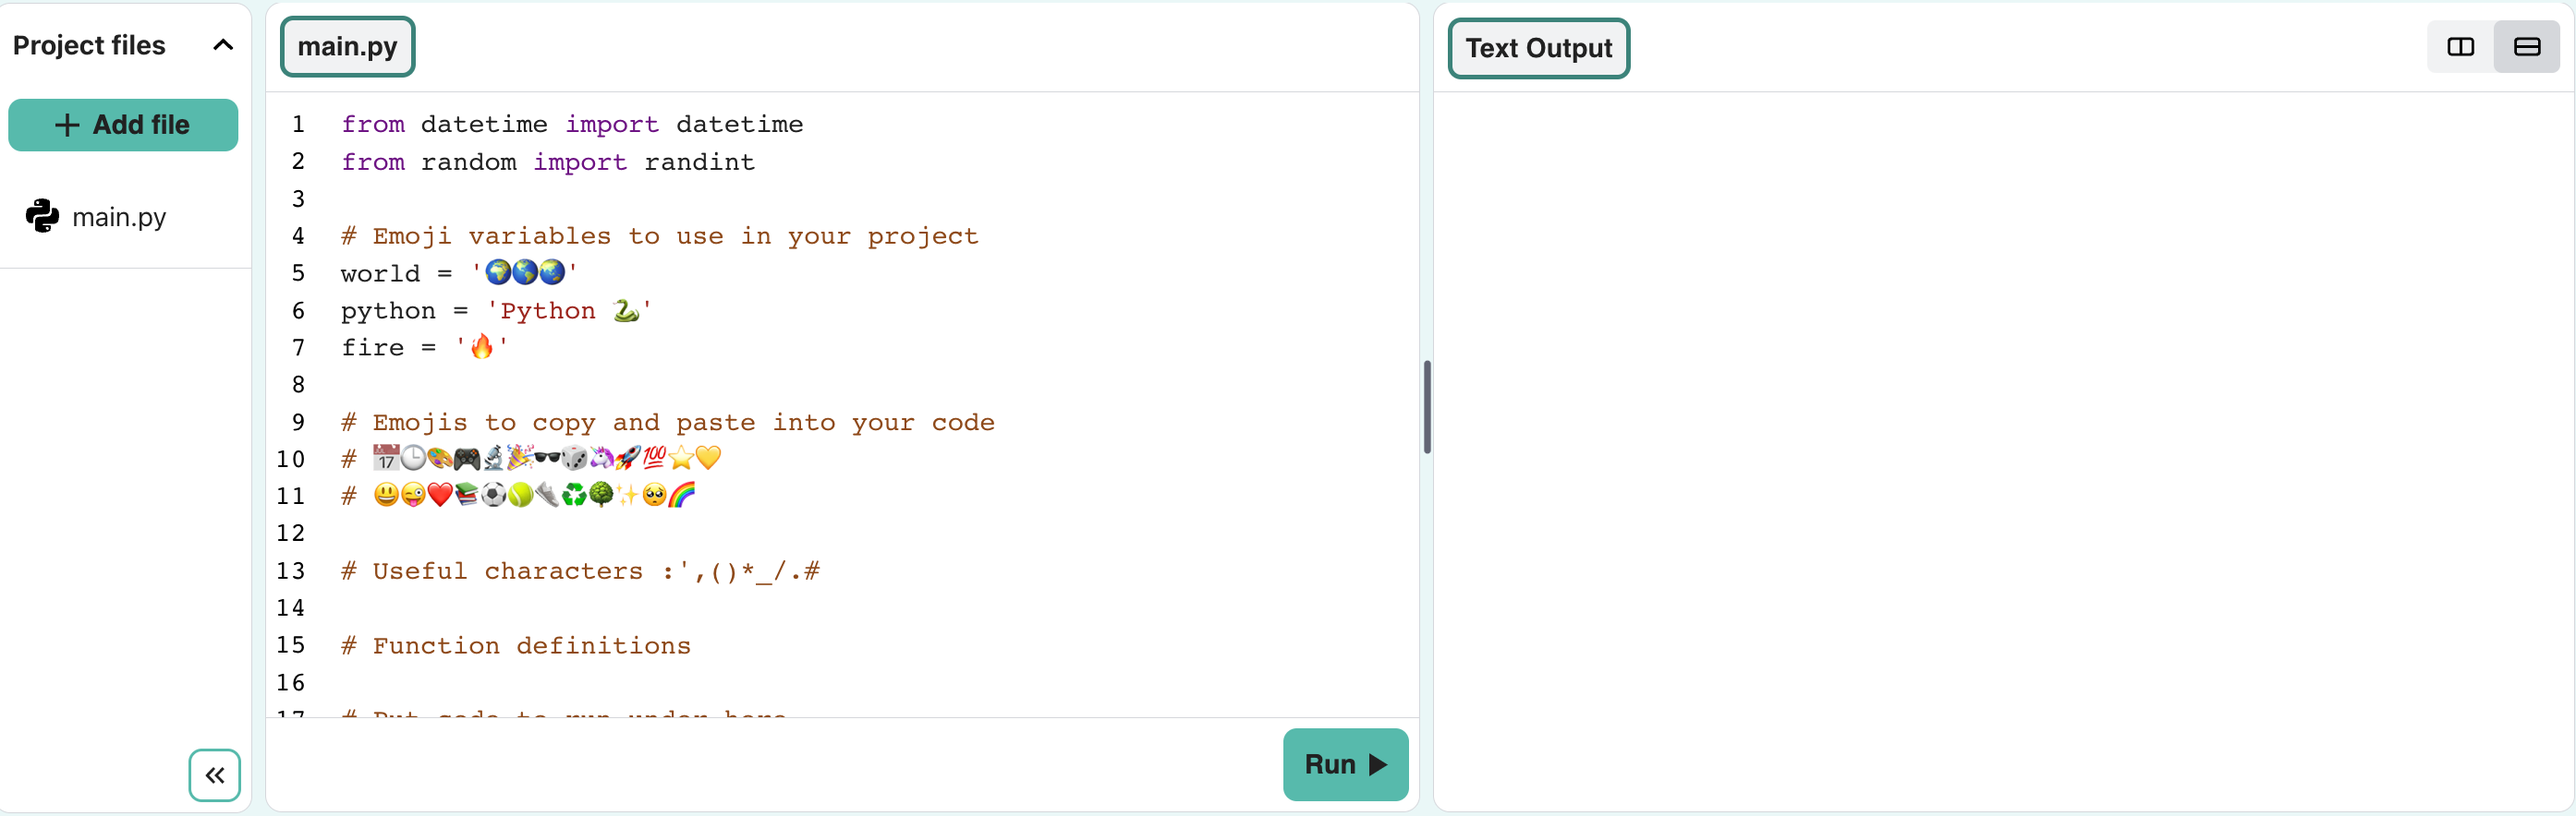
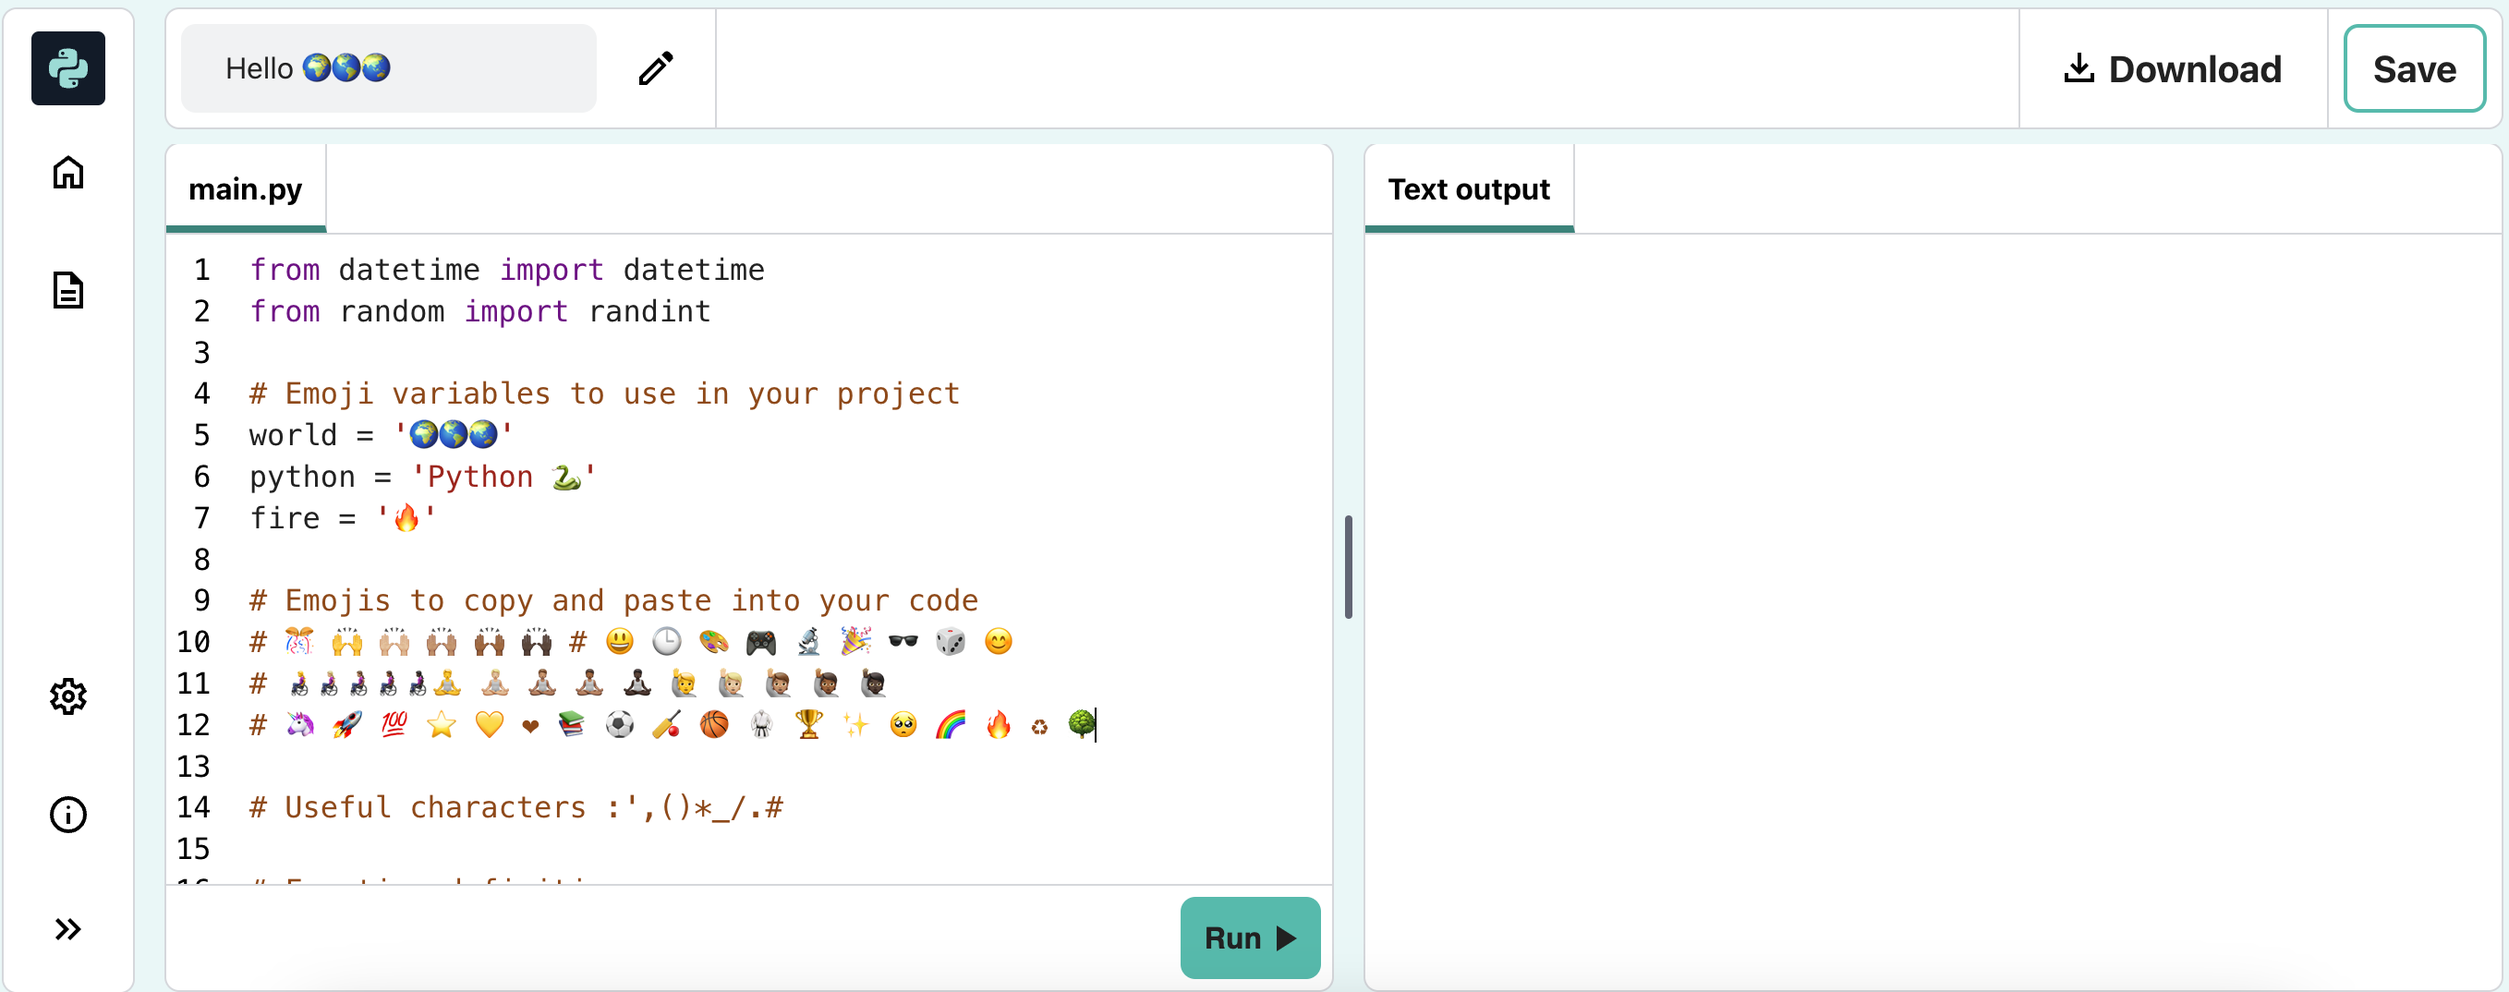
updated steps

diff --git a/en/step_5.md b/en/step_5.md
@@ -51,9 +51,9 @@ Scroll to the **emoji** section in the code editor to see the emojis and example
 
 You can add more emojis to the **emoji** section. Use this [emoji list](https://unicode.org/emoji/charts/full-emoji-list.html){:target="_blank"} to find the ones you want. 
 
-🎊 🙌 🙌🏼 🙌🏽 🙌🏾 🙌🏿 # 😃 🕒🎨🎮🔬🎉🕶🎲 😊
-🦄🚀💯⭐💛❤📚⚽🏏🏀🥋🏆✨🥺🌈🔥♻🌳
-👩🦽👩🏼🦽👩🏽🦽👩🏾🦽👩🏿🦽🧘 🧘🏼 🧘🏽 🧘🏾 🧘🏿 🙋🙋🏼🙋🏽🙋🏾🙋🏿
+🎊 🙌 🙌🏼 🙌🏽 🙌🏾 🙌🏿 😃 🕒 🎨 🎮 🔬 🎉 🕶 🎲 😊
+🦄 🚀 💯 ⭐ 💛 ❤ 📚 ⚽ 🏏 🏀 🥋 🏆 ✨ 🥺 🌈 🔥 ♻ 🌳
+👩🦽👩🏼🦽👩🏽🦽👩🏾🦽👩🏿🦽🧘 🧘🏼 🧘🏽 🧘🏾 🧘🏿 🙋 🙋🏼 🙋🏽 🙋🏾 🙋🏿
 
 [[[choose-an-emoji]]]
 

diff --git a/en/step_7.md b/en/step_7.md
@@ -66,7 +66,7 @@ hobbies()  # Calls the hobbies function
 title: Completed project
 ---
 
-You can view the [completed project here](https://editor.raspberrypi.org/en/projects/hello-world-solution){:target="_blank"}.
+You can view the [completed project here](https://staging-editor.raspberrypi.org/en/projects/hello-world-solution){:target="_blank"}.
 
 --- /collapse ---
 
